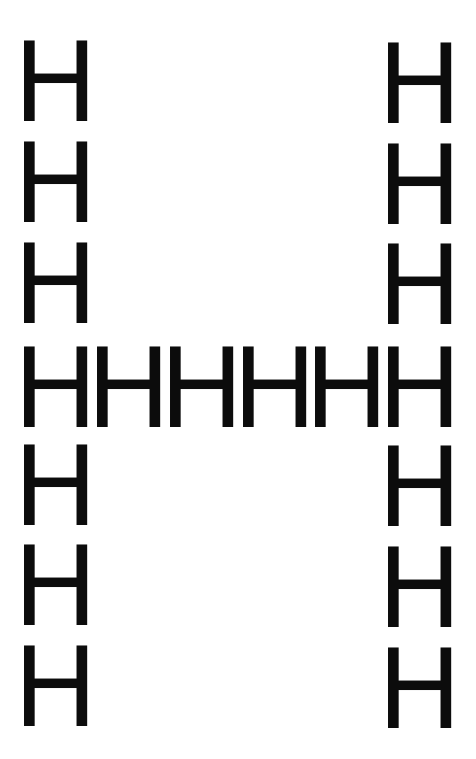
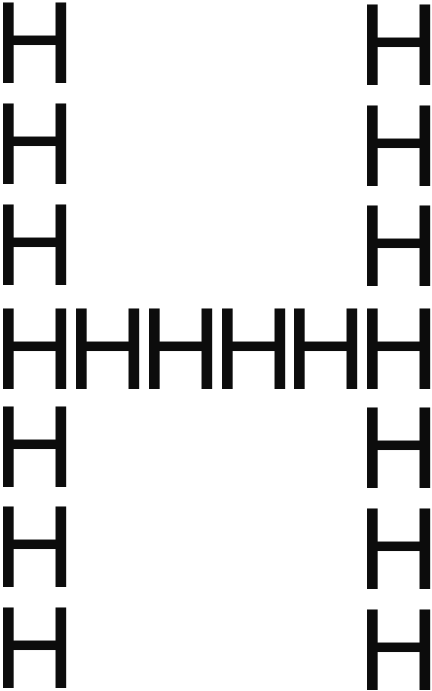
offset 12 mm

Changed region(s): [[0.0, 0.0, 1.0, 1.0]]

diff --git a/experiment.js b/experiment.js
@@ -319,7 +319,7 @@ var makeTrialList = function(trial_index, len, stim, data) {
     //randomize first trial
   tmpi = Math.floor(Math.random() * (stim.length))
   var tmp_obj = {}
-  tmp_obj.stimulus = stim[tmpi] + '" height = 200 width = 200 style=' + getRandomImagePositioning() +'></img></div></div>'
+  tmp_obj.stimulus = stim[tmpi] + generateImageDescription() +'></img></div></div>'
   var tmp_data = $.extend({}, data[tmpi])
   tmp_data.switch = 0
   tmp_data.correct_response = responses[trial_index][tmpi]
@@ -330,7 +330,7 @@ var makeTrialList = function(trial_index, len, stim, data) {
   for (i = 1; i < len; i++) {
     tmp_obj = {}
     tmpi = Math.floor(Math.random() * (stim.length))
-    tmp_obj.stimulus = stim[tmpi] + '" height = 200 width = 200 style=' + getRandomImagePositioning() +'></img></div></div>'
+    tmp_obj.stimulus = stim[tmpi] + generateImageDescription() +'></img></div></div>'
     tmp_data = $.extend({}, data[tmpi])
     tmp_data.correct_response = correct_response(trial_index, tmpi)
     tmp_obj.data = tmp_data
@@ -345,17 +345,69 @@ var getInstructFeedback = function() {
       '</p></div>'
   }
 
-function getRandomImagePositioning() {
-  const positionOptions = [
-    '"margin-left: 12mm;"',
-    '"margin-right: 12mm;"',
-    '"margin-top: -20mm;"',
-    '"margin-top: 40mm;"',
-  ];
-
-  return positionOptions[Math.floor(Math.random() * positionOptions.length)];
+// Function to calculate screen DPI dynamically
+function getScreenDPI() {
+  const div = document.createElement('div');
+  div.style.width = '1in';
+  div.style.height = '1in';
+  div.style.position = 'absolute';
+  div.style.visibility = 'hidden';
+  document.body.appendChild(div);
+  const dpi = div.offsetWidth;
+  document.body.removeChild(div);
+  return dpi;
 }
 
+// Function to convert millimeters to pixels based on the screen DPI
+function mmToPixels(mm) {
+  const dpi = getScreenDPI();
+  const mmPerInch = 25.4;
+  return (mm / mmPerInch) * dpi;
+}
+
+// Function to generate a random CSS offset 12mm away from the center of the viewport
+function getRandomImagePositioning() {
+  const offsetPixels = 50; // Convert 12mm to pixels
+
+  // Get the center position of the viewport
+  const viewportWidth = window.innerWidth;
+  const viewportHeight = window.innerHeight;
+
+  const centerX = 0;
+  const centerY = 0;
+
+  // Define the image dimensions
+  const imageWidth = 200;
+  const imageHeight = 200;
+
+  // Randomly decide the direction to offset
+  const directions = [
+    { x: offsetPixels, y: 0 },   // Right of center
+    { x: -offsetPixels, y: 0 },  // Left of center
+    { x: 0, y: offsetPixels },   // Below center
+    { x: 0, y: -offsetPixels }   // Above center
+  ];
+  const randomDirection = directions[Math.floor(Math.random() * directions.length)];
+
+  // Calculate the top-left position of the image to ensure the image's center is at the desired point
+  const positionX =randomDirection.x;
+  const positionY = randomDirection.y;
+
+
+  // Return the CSS styles for positioning
+  return `position: absolute; left: ${positionX}px; top: ${positionY}px;`;
+}
+
+// Function to generate the image description with random positioning
+function generateImageDescription() {
+  const height = 200;
+  const width = 200;
+  const style = getRandomImagePositioning();
+
+
+
+  return `"height=${height} width=${width} style='${style}'"`;
+}
 
   /* ************************************ */
   /* Define experimental variables */
